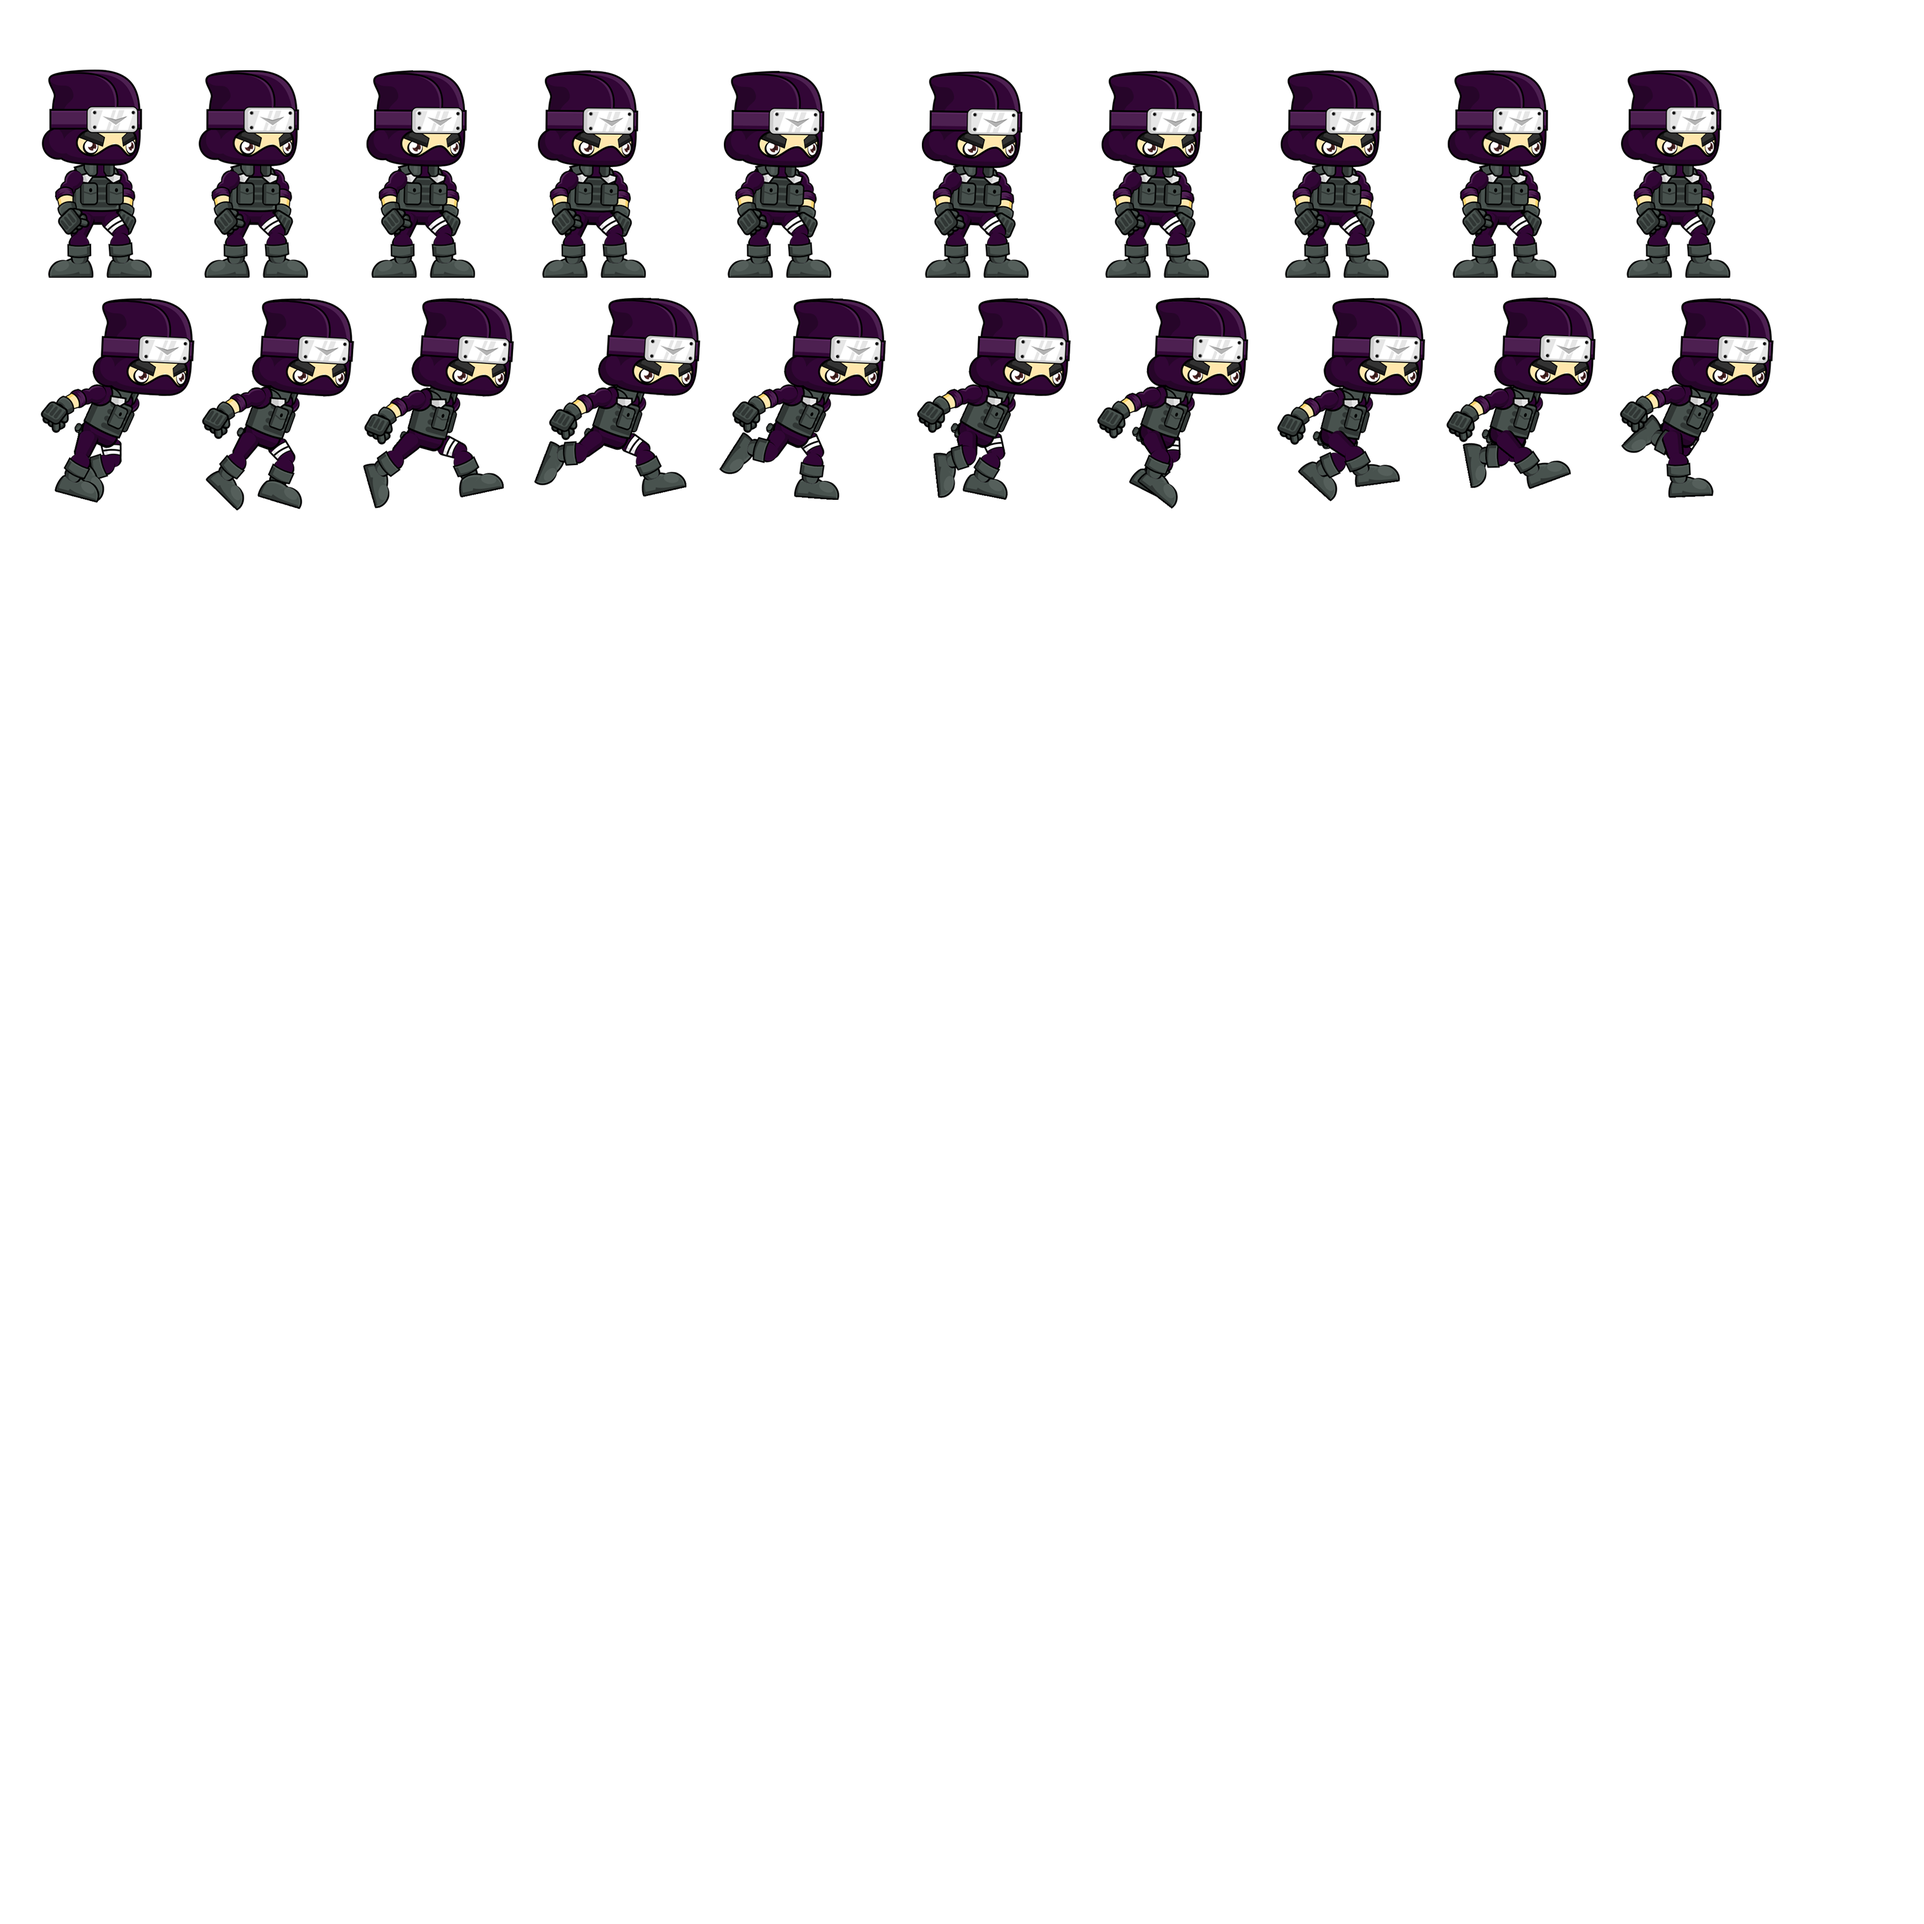
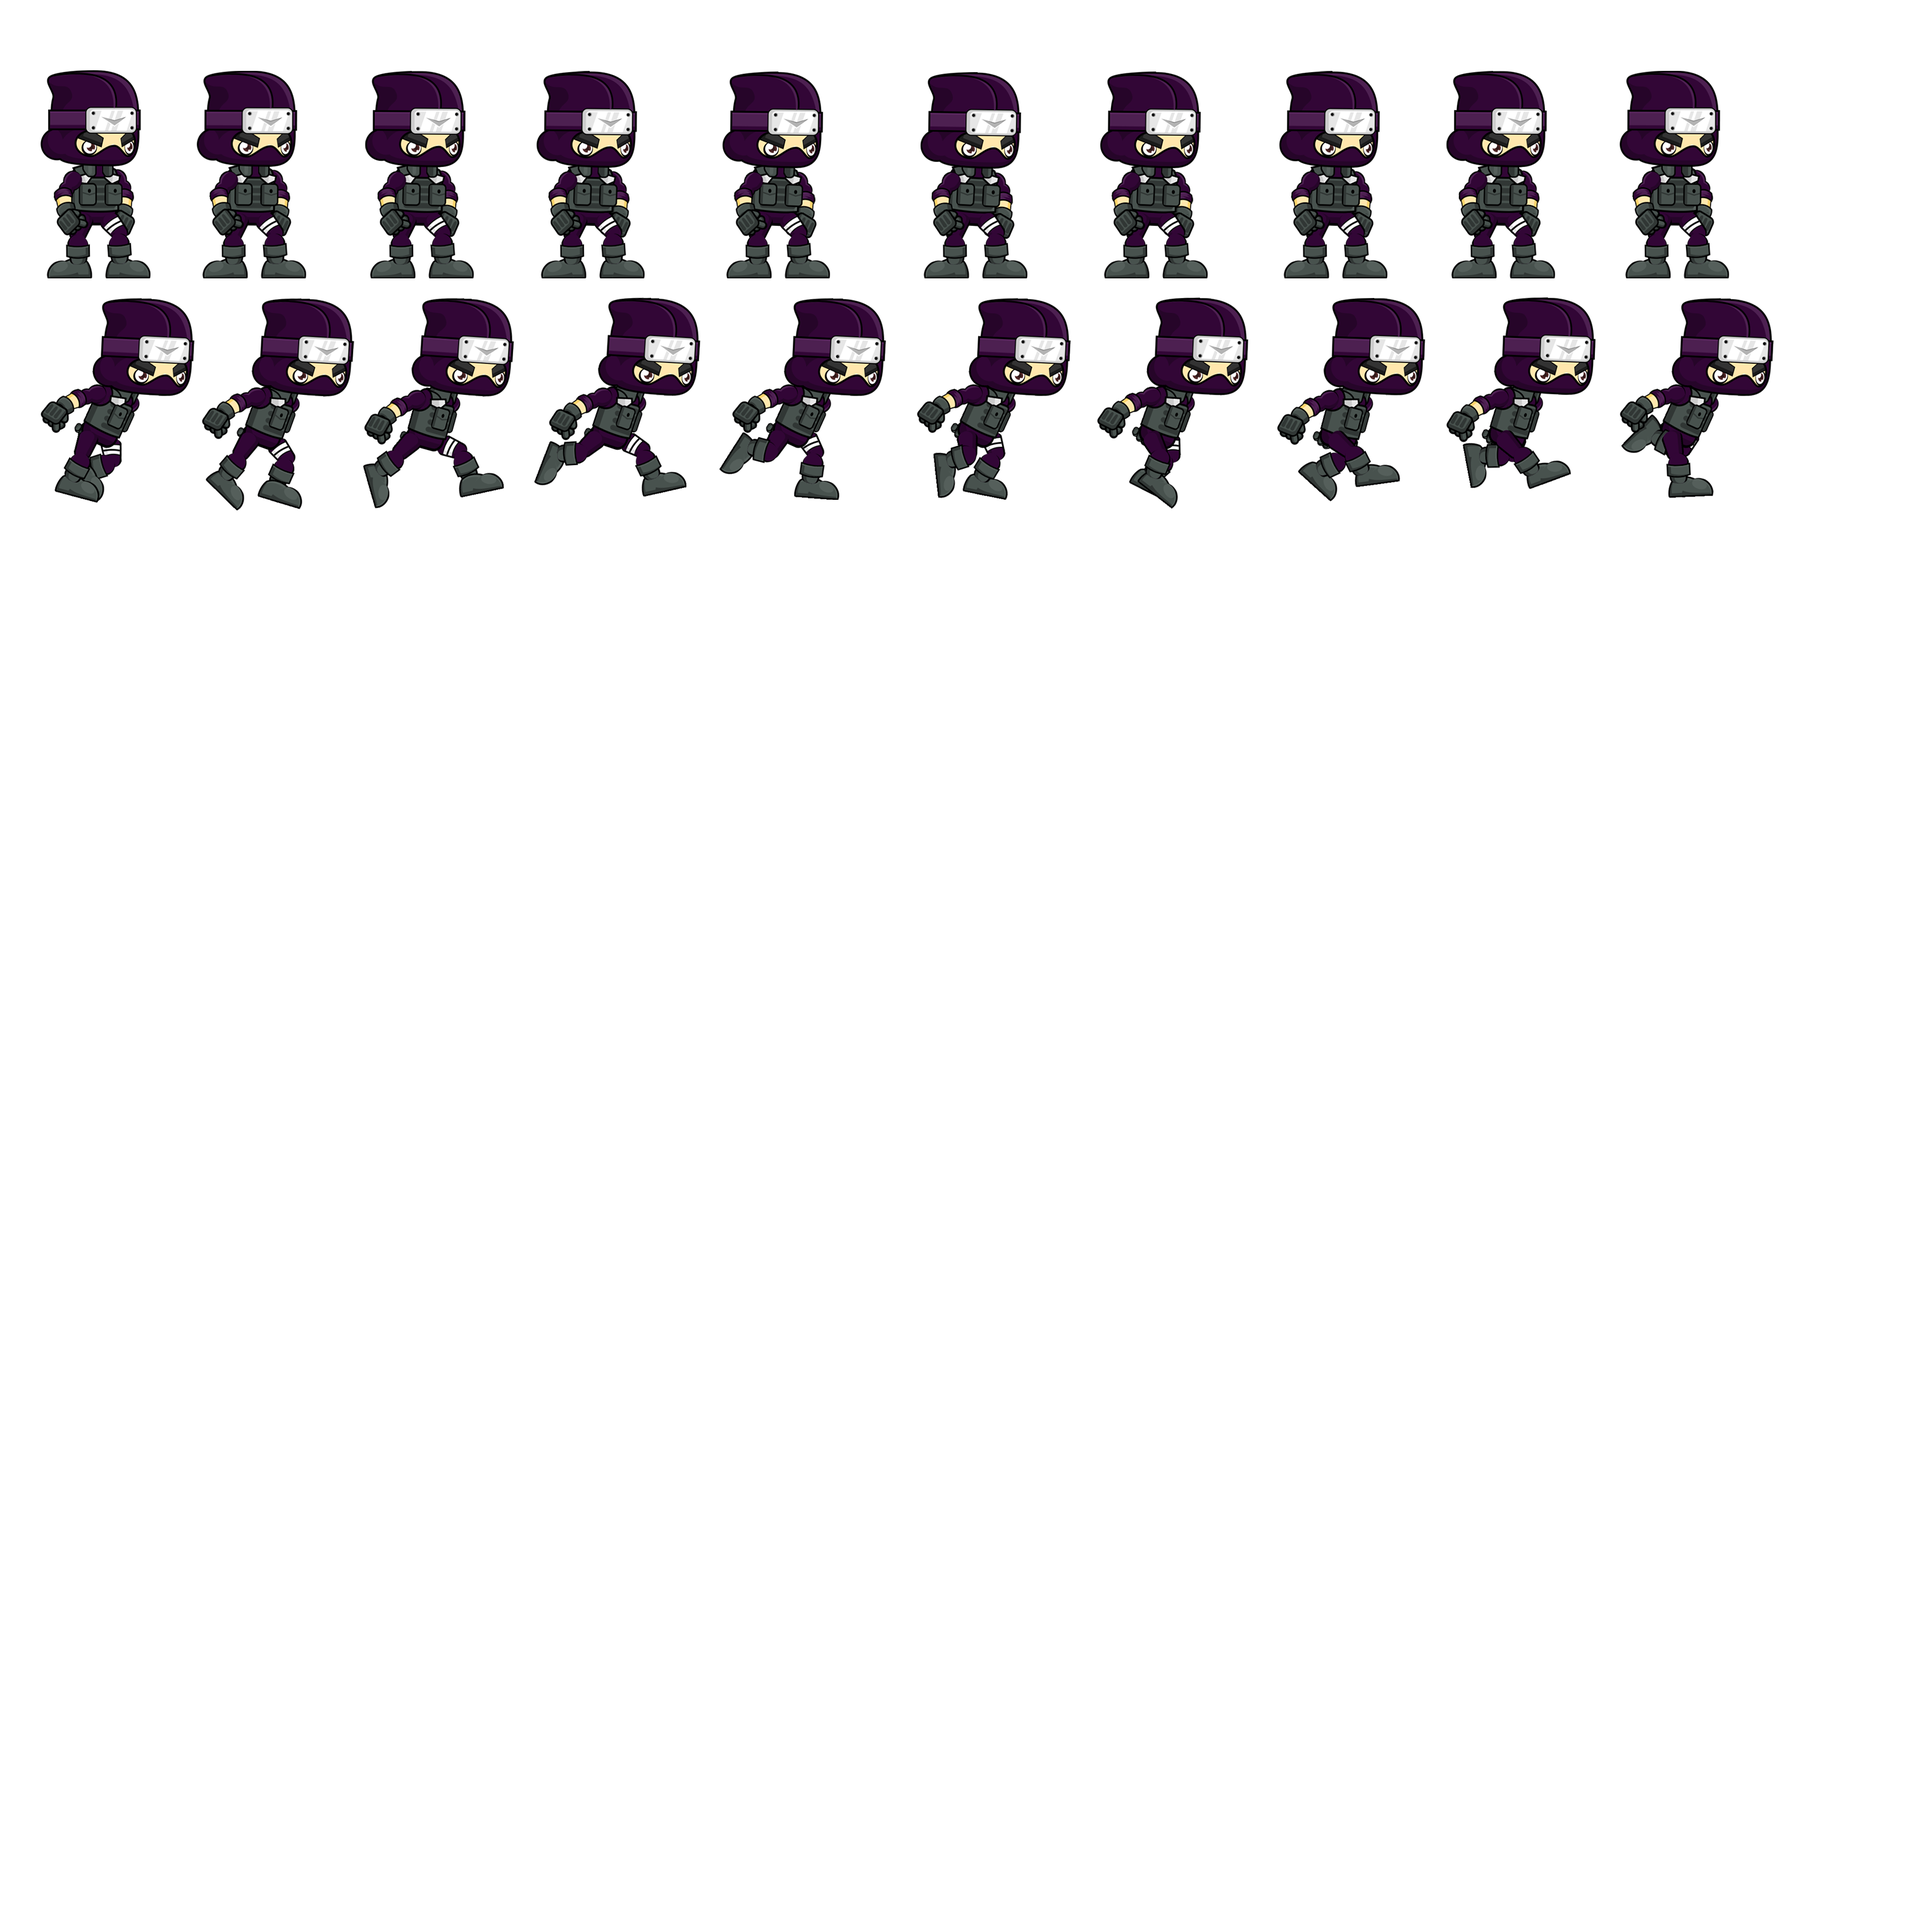
Idle 1 animation done

diff --git a/NinNin/NinNin/Assigment_1/Motor2D/j1Player.cpp b/NinNin/NinNin/Assigment_1/Motor2D/j1Player.cpp
@@ -24,15 +24,16 @@ j1Player::j1Player():j1Module()
 	current_animation = NULL;
 
 	//idle animation Right
-	idle_Stop.PushBack({ 64,110,176,331 });
-	idle_Stop.PushBack({ 312,110,176,331 });
-	idle_Stop.PushBack({ 576,110,176,331 });
-	idle_Stop.PushBack({ 846,110,176,331 });
-	idle_Stop.PushBack({ 1140,110,176,331 });
-	idle_Stop.PushBack({ 1452,110,176,331 });
-	idle_Stop.PushBack({ 2021,110,176,331 });
-	idle_Stop.PushBack({ 2286,110,176,331 });
-	idle_Stop.PushBack({ 2560,110,176,331 });
+	idle_Stop.PushBack({ 64,111,176,331 });
+	idle_Stop.PushBack({ 310,111,176,331 });
+	idle_Stop.PushBack({ 575,111,176,331 });
+	idle_Stop.PushBack({ 845,111,176,331 });
+	idle_Stop.PushBack({ 1138,111,176,331 });
+	idle_Stop.PushBack({ 1450,111,176,331 });
+	idle_Stop.PushBack({ 1735,111,176,331 });
+	idle_Stop.PushBack({ 2019,111,176,331 });
+	idle_Stop.PushBack({ 2284,111,176,331 });
+	idle_Stop.PushBack({ 2559,111,176,331 });
 
 
 	idle_Stop.loop = true;
